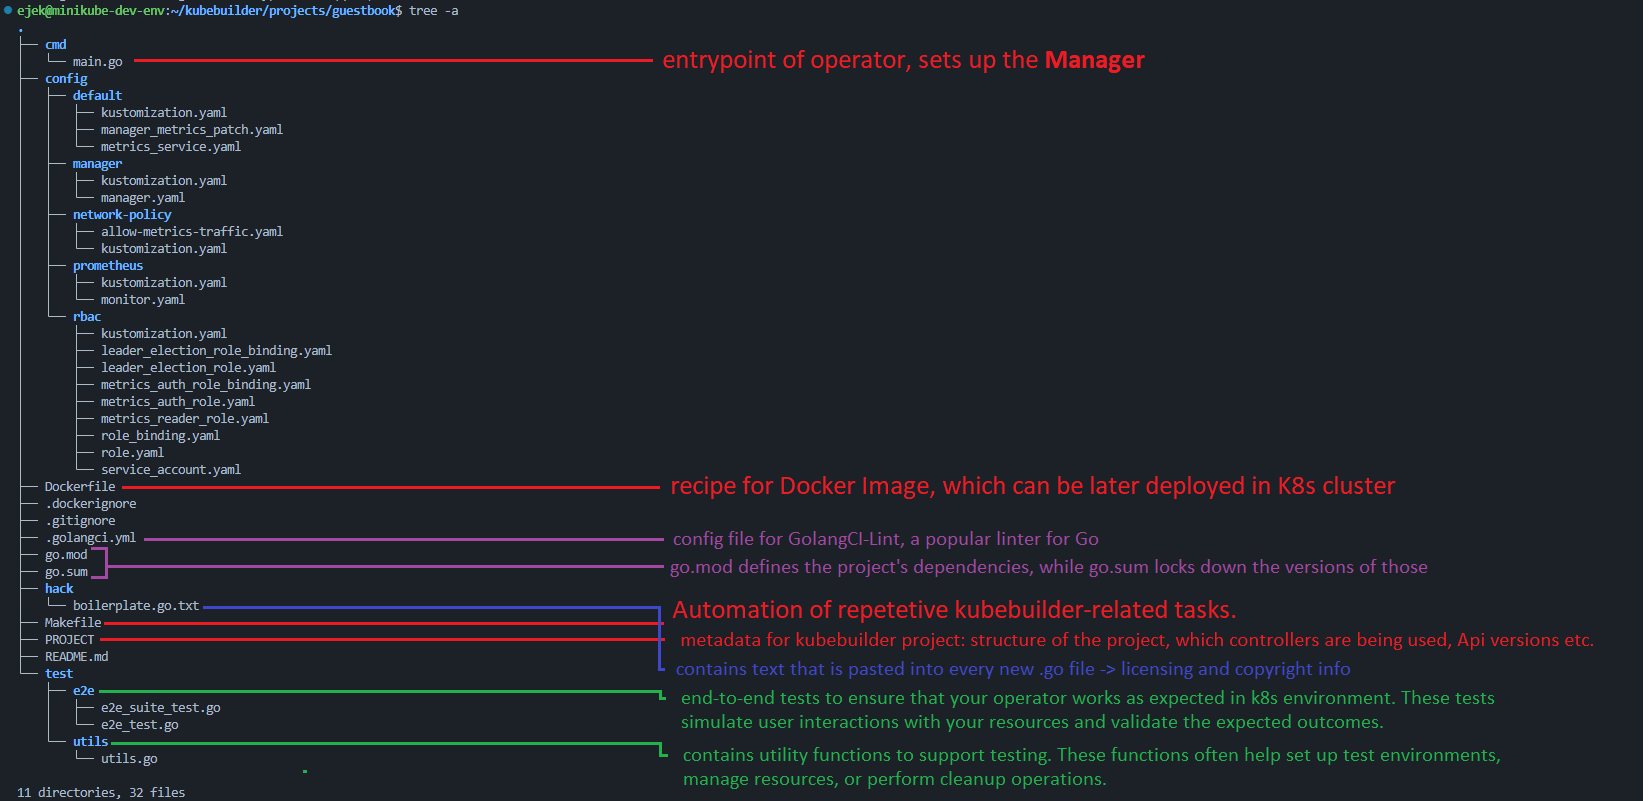
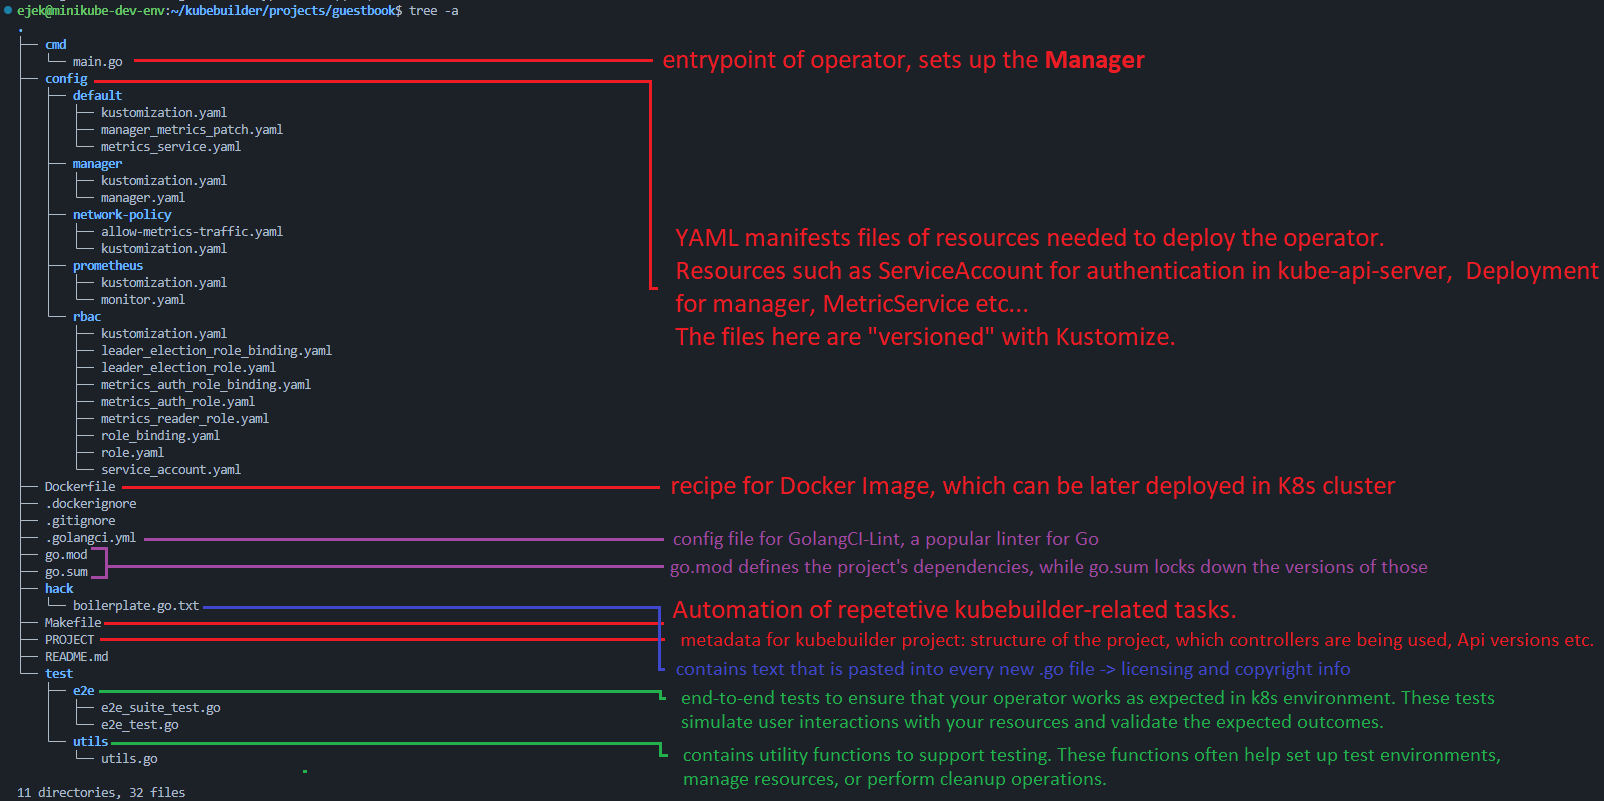
fdasf

diff --git a/resources-needed-by-operator.md b/resources-needed-by-operator.md
@@ -1,0 +1,251 @@
+# Kubernetes manifest file
+
+A Kubernetes manifest file is a YAML or JSON configuration file used to define and manage Kubernetes resources
+
+These files describe the desired state of Kubernetes objects, such as Pods, Deployments, Services, Ingress, and other resources.
+
+Example:
+```yaml
+apiVersion: apps/v1
+kind: Deployment
+metadata:
+  name: nginx-deployment
+  labels:
+    app: nginx
+spec:
+  replicas: 3
+  selector:
+    matchLabels:
+      app: nginx
+  template:
+    metadata:
+      labels:
+        app: nginx
+    spec:
+      containers:
+      - name: nginx
+        image: nginx:1.19.3
+        ports:
+        - containerPort: 80
+```
+
+# Resources needed to deploy the Operator
+## 1st round
+### Service Account
+It provides an operator with an identity and is used for authentication during communicating with `kube-api-server`
+### Roles and RoleBinding
+These specify what actions (e.g. get, list, watch) the operator can perform on which Kubernetes resources.
+
+E.g. a Pod-Controller needs persmission to create, update, delete and list Pods
+### Deployment
+The operator runs as a Deployment in the K8s cluster. This resource defines how many replicas of the controller should run, the container image, environment variables, resource* requests/limist etc.
+> *like cpu,ram
+### Netowrk Policies
+Define which types of network traffic are allowed to reach the operator, such as allowing Prometheus to scrape metrics from the manager.
+
+### Metrics Service
+Defines a Service for exposing the metrics endpoint that Prometheus or another monitoring tool can use to scrape.
+
+### Leader Election Resource 
+The operator uses a mechanism called leader election to ensure that only one instance of the controller is active if multiple replicas are deployed. This prevents multiple instances from making conflicting changes.
+## 2nd round
+### ServiceAccount
+https://kubernetes.io/docs/concepts/security/service-accounts/
+
+
+```yaml
+apiVersion: v1
+kind: ServiceAccount
+metadata:
+  name: guestbook-operator
+  namespace: default
+```
+
+### Roles and RoleBindings
+https://kubernetes.io/docs/reference/access-authn-authz/rbac/
+
+
+```yaml
+apiVersion: rbac.authorization.k8s.io/v1
+kind: Role
+metadata:
+  name: guestbook-operator-role
+  namespace: default
+rules:
+  - apiGroups: [""]
+    resources: ["pods", "services"]
+    verbs: ["get", "list", "watch", "create", "update", "patch", "delete"]
+  - apiGroups: ["apps"]
+    resources: ["deployments"]
+    verbs: ["get", "list", "watch", "create", "update", "patch", "delete"]
+```
+```yaml
+apiVersion: rbac.authorization.k8s.io/v1
+kind: ClusterRole
+metadata:
+  name: guestbook-operator-cluster-role
+rules:
+  - apiGroups: [""]
+    resources: ["nodes"]
+    verbs: ["get", "list", "watch"]
+  - apiGroups: ["apps"]
+    resources: ["replicasets"]
+    verbs: ["get", "list", "watch", "create", "update", "patch", "delete"]
+```
+```yaml
+apiVersion: rbac.authorization.k8s.io/v1
+kind: RoleBinding
+metadata:
+  name: guestbook-operator-rolebinding
+  namespace: default
+subjects:
+  - kind: ServiceAccount
+    name: guestbook-operator
+    namespace: default
+roleRef:
+  kind: Role
+  name: guestbook-operator-role
+  apiGroup: rbac.authorization.k8s.io
+```
+```yaml
+apiVersion: rbac.authorization.k8s.io/v1
+kind: ClusterRoleBinding
+metadata:
+  name: guestbook-operator-clusterrolebinding
+subjects:
+  - kind: ServiceAccount
+    name: guestbook-operator
+    namespace: default
+roleRef:
+  kind: ClusterRole
+  name: guestbook-operator-cluster-role
+  apiGroup: rbac.authorization.k8s.io
+```
+
+### Deployment
+```yaml
+apiVersion: apps/v1
+kind: Deployment
+metadata:
+  name: guestbook-operator
+  namespace: default
+spec:
+  replicas: 1
+  selector:
+    matchLabels:
+      name: guestbook-operator
+  template:
+    metadata:
+      labels:
+        name: guestbook-operator
+    spec:
+      serviceAccountName: guestbook-operator
+      containers:
+        - name: manager
+          image: my.domain/guestbook-operator:latest
+          command:
+            - /manager
+          ports:
+            - containerPort: 9443
+              name: webhook-server
+      resources:
+        limits:
+          cpu: 100m
+          memory: 128Mi
+        requests:
+          cpu: 100m
+          memory: 64Mi
+```
+### Network Policy
+```yaml
+apiVersion: networking.k8s.io/v1
+kind: NetworkPolicy
+metadata:
+  name: allow-metrics-traffic
+  namespace: default
+spec:
+  podSelector:
+    matchLabels:
+      name: guestbook-operator
+  policyTypes:
+    - Ingress
+  ingress:
+    - from:
+        - namespaceSelector: {}
+          podSelector: {}
+      ports:
+        - protocol: TCP
+          port: 8080
+```
+### Metrics Service
+```yaml
+apiVersion: v1
+kind: Service
+metadata:
+  name: guestbook-operator-metrics-service
+  namespace: default
+  labels:
+    name: guestbook-operator
+spec:
+  ports:
+    - port: 8080
+      name: http-metrics
+  selector:
+    name: guestbook-operator
+  type: ClusterIP
+```
+### Leader election role and role binding
+```yaml
+apiVersion: rbac.authorization.k8s.io/v1
+kind: Role
+metadata:
+  name: guestbook-operator-leader-election-role
+  namespace: default
+rules:
+  - apiGroups: [""]
+    resources: ["configmaps"]
+    verbs: ["create", "get", "update", "delete"]
+```
+```yaml
+apiVersion: rbac.authorization.k8s.io/v1
+kind: RoleBinding
+metadata:
+  name: guestbook-operator-leader-election-rolebinding
+  namespace: default
+subjects:
+  - kind: ServiceAccount
+    name: guestbook-operator
+    namespace: default
+roleRef:
+  kind: Role
+  name: guestbook-operator-leader-election-role
+  apiGroup: rbac.authorization.k8s.io
+```
+
+## Summary 
+To deploy a Kubebuilder-based operator, you need a variety of Kubernetes resources, each serving a unique role:
+
+- ServiceAccount: Identity for operator Pods.
+- Role/ClusterRole and RoleBinding/ClusterRoleBinding: Define and assign permissions.
+- Deployment: Deploys and manages the operator's Pods.
+- NetworkPolicy (optional): Controls access to the operator for security purposes.
+- Metrics Service (optional): Exposes metrics for monitoring.
+- Leader Election Role and RoleBinding: Manages leader election in case multiple replicas are deployed.
+
+These resources together ensure that the operator runs effectively, has the permissions it needs, and integrates well into the Kubernetes environment.
+
+# Kustomize
+
+In the operator world, you often need to deploy the operator to different environments like development, testing, and production. These environments might need different configurations, such as resource limits, number of replicas, or the logging level. Kustomize allows you to create and manage different overlays for each environment without modifying the base configurations.
+
+## Example
+Let's consider a situation where you're deploying an operator that manages a custom resource called Guestbook. You need to create different configurations for development and production environments.
+
+![](img/9.png)
+
+Let's assume in our example that:
+- In development mode only 1 replica will be needed, not 3
+- In production mode we require more performencable cpu/ram resources
+
+![](img/10.png)
+
